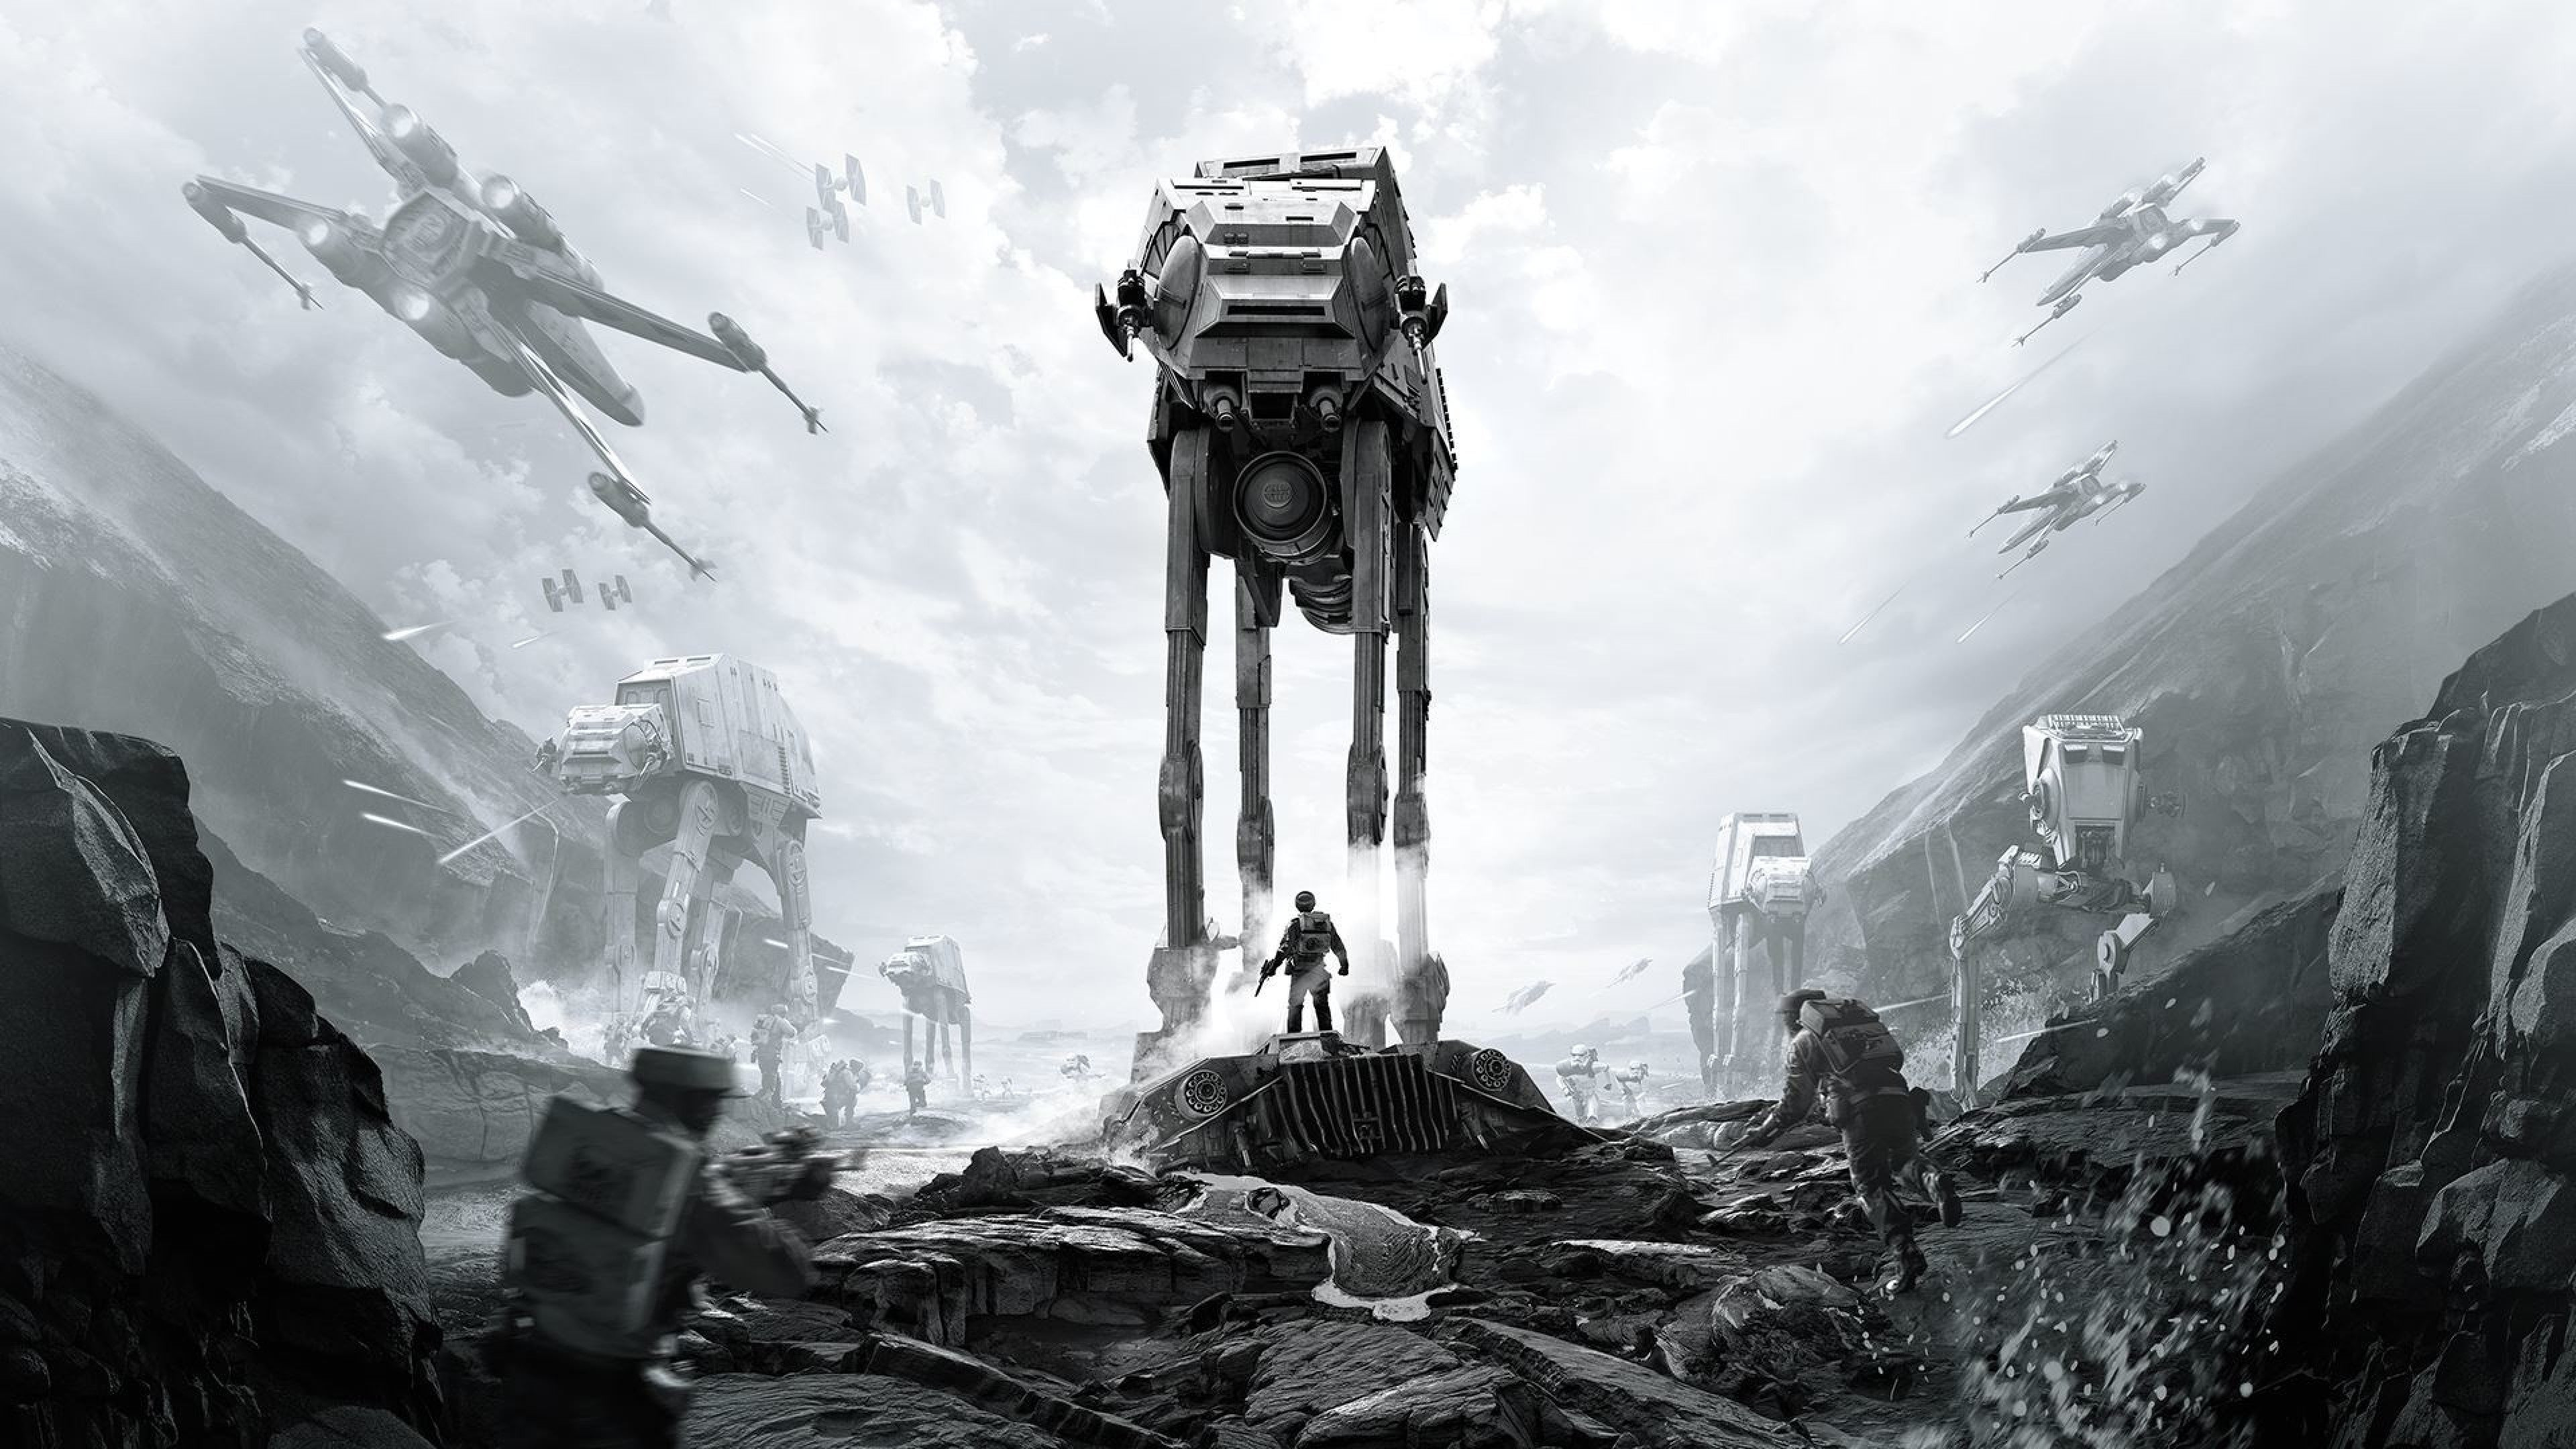
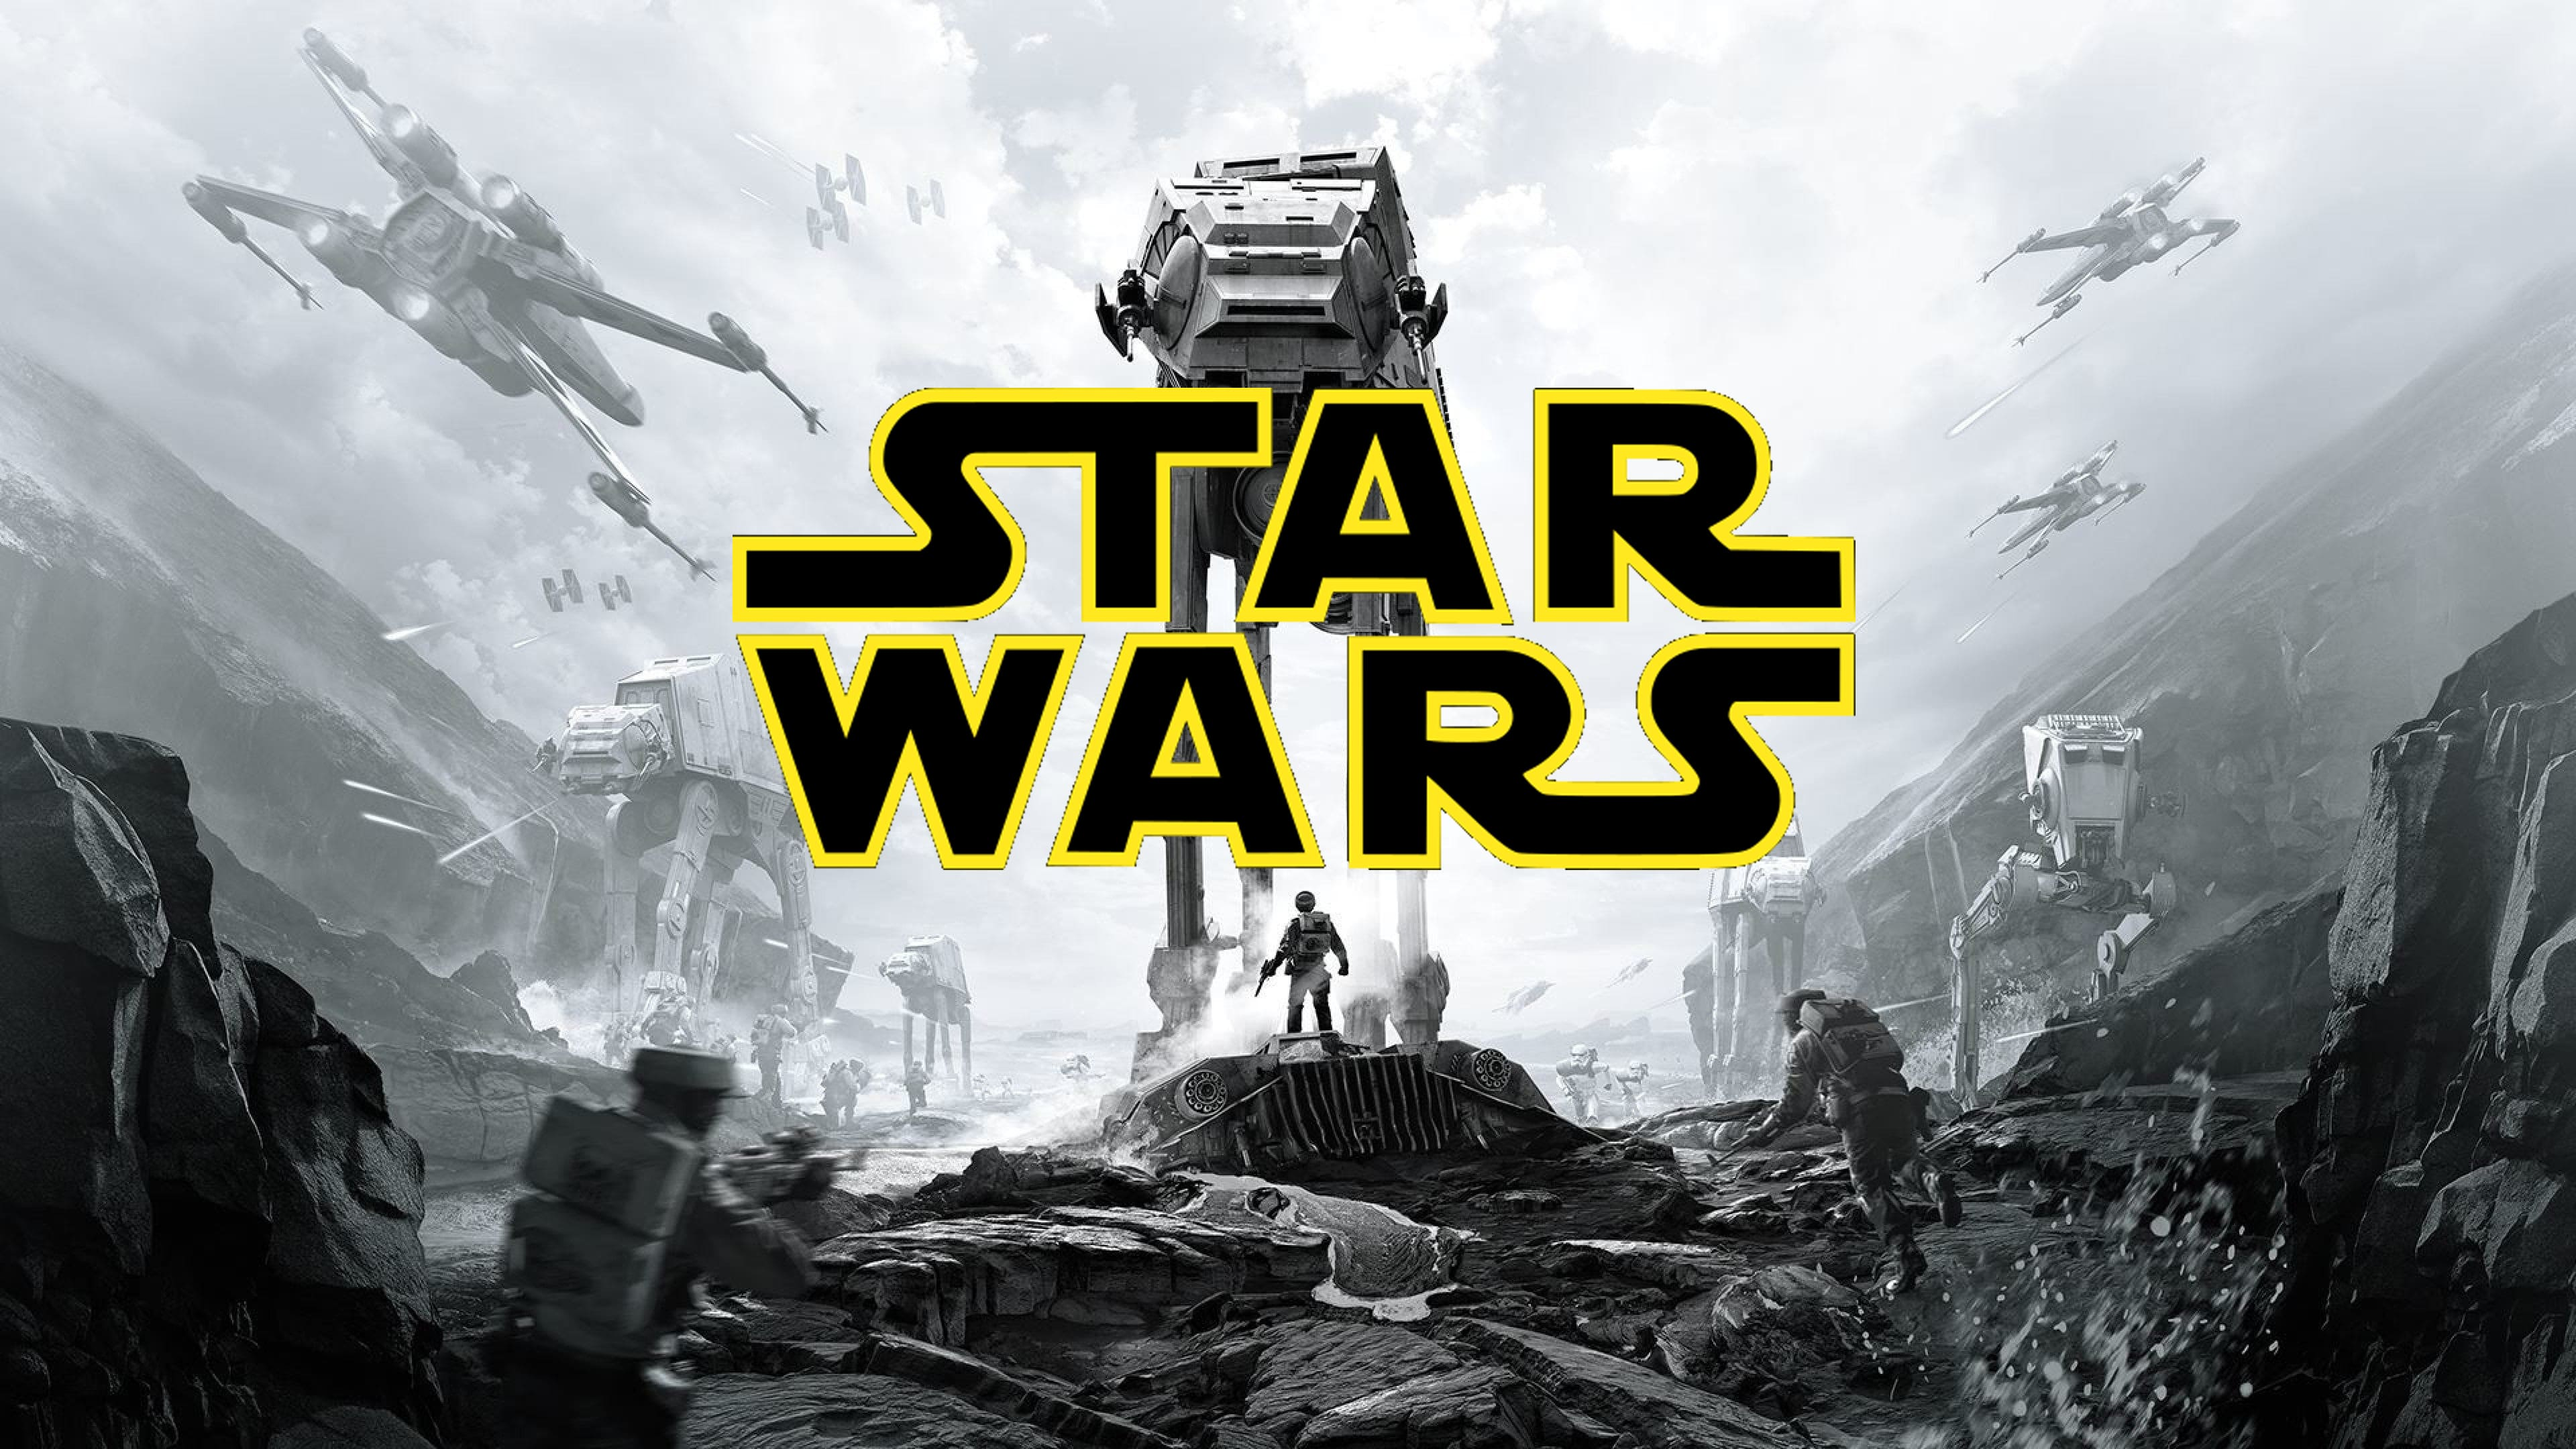
fondos

Changed region(s): [[0.2812, 0.2481, 0.7188, 0.6204]]

diff --git a/template/partials/local-storage.html b/template/partials/local-storage.html
@@ -1,15 +1,17 @@
-<table class="table table-dark">
-  <thead>
-    <tr>
-      <th scope="col">#</th>
-      <th scope="col">Nombre</th>
-      <th scope="col">Género</th>
-      <th scope="col">Altura</th>
-      <th scope="col">Peso</th>
-      <th scope="col">Color de ojos</th>
-      <th scope="col">Eliminar</th>
-    </tr>
-  </thead>
-  <tbody id="tableBody">
-  </tbody>
-</table>
+<div id="wallpaper">
+    <table class="table table-dark" >
+        <thead>
+          <tr>
+            <th scope="col">#</th>
+            <th scope="col">Nombre</th>
+            <th scope="col">Género</th>
+            <th scope="col">Altura</th>
+            <th scope="col">Peso</th>
+            <th scope="col">Color de ojos</th>
+            <th scope="col">Eliminar</th>
+          </tr>
+        </thead>
+        <tbody id="tableBody">
+        </tbody>
+      </table>
+</div>

diff --git a/template/css/styles.css b/template/css/styles.css
@@ -18,8 +18,11 @@ body {
   background-position: 30% 5%;
   background-size: cover;
 }
-#color-letter {
-  -webkit-text-stroke: 2px #efb810;
-  color: black;
-  letter-spacing: 0.1em;
+#wallpaper{
+  /* width: 100vw;
+  height: 100vh; */
+  background-image: url(../img/starWarsVertical2.jpg);
+  background-position: 30% 5%;
+  background-size: cover;
+
 }

diff --git a/template/partials/home.html b/template/partials/home.html
@@ -1,5 +1,5 @@
-<div style="text-align: center;font-size: 150px">
+<!-- <div style="text-align: center;font-size: 150px">
     <div id="color-letter">Star</div>
     <div id="color-letter" style="font-size: 40px">APi</div>
     <div id="color-letter">Wars</div>
-</div>
+</div> -->

diff --git a/template/partials/contact.html b/template/partials/contact.html
@@ -1,4 +1,4 @@
-<div style="width: 80%; margin: auto; text-align: center">
+<div id="wallpaper" style="width: 80%; margin: auto; text-align: center">
   <h2 id="color-letter">Contacto</h2>
   <br>
     <form>

diff --git a/template/partials/people.html b/template/partials/people.html
@@ -1,4 +1,4 @@
-<div>
+<div id="wallpaper">
   <table class="table table-dark">
     <thead id="personajes">
       <tr>
